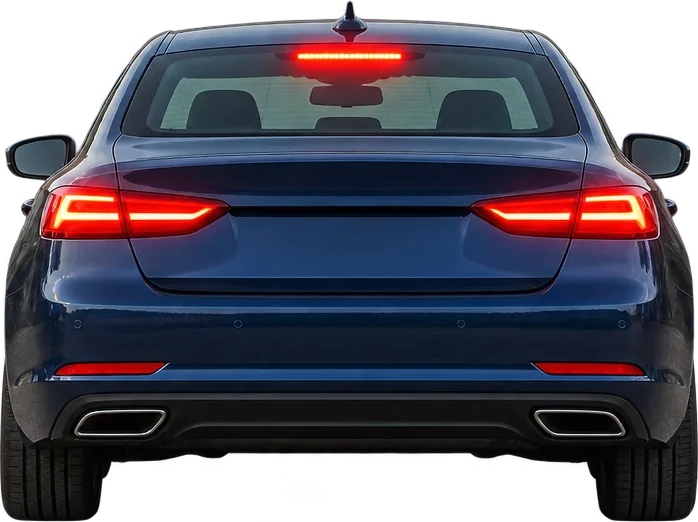
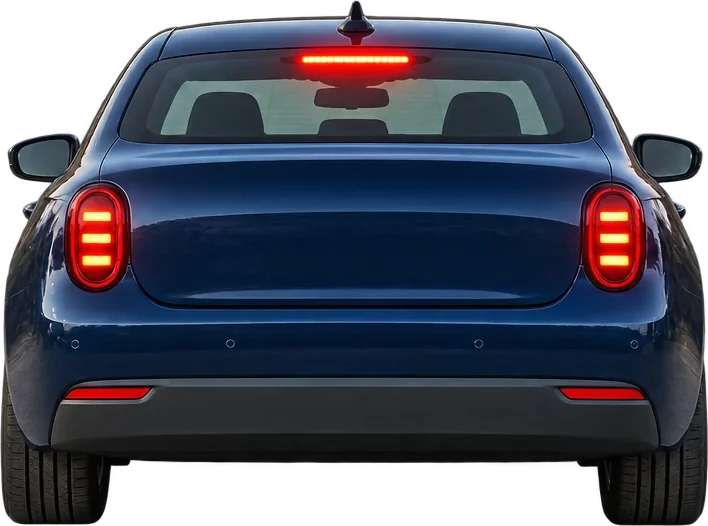
Bremsen: Kuppe mit Stauende in Fahrt 4, Gefälle in Fahrt 7, Bremsweg bergauf/bergab, neu gezeichnete Stau-Autos

diff --git a/autohaus-bremstest/spiel.js b/autohaus-bremstest/spiel.js
@@ -13,22 +13,32 @@
     { kmh: 30, wetter: 'tag', gefahr: 'ball' },
     { kmh: 50, wetter: 'tag', gefahr: 'hase' },   // Hase statt Reh (Nutzer, 18.10.2026), das Reh bleibt in Fahrt 5
     { kmh: 50, wetter: 'regen', gefahr: 'auto' },
-    { kmh: 70, wetter: 'tag', gefahr: 'stau' },
+    { kmh: 70, wetter: 'tag', gefahr: 'stau', steigung: 8, kuppe: 12.5 },   // Nutzer 19.10.2026: bergauf, Stauende 12,5 m hinter der Kuppe
     { kmh: 70, wetter: 'nebel', gefahr: 'reh' },
     { kmh: 100, wetter: 'nacht', gefahr: 'stau' },
-    { kmh: 100, wetter: 'sonne', gefahr: 'ladung' },   // Fahrt 7 (Nutzer, 18.10.2026): blendende Sonne, Sonnenblende, LKW verliert Ladung
+    { kmh: 100, wetter: 'sonne', gefahr: 'ladung', steigung: -8 },   // Fahrt 7 (Nutzer, 18.10.2026): blendende Sonne, Sonnenblende, LKW verliert Ladung
   ];
   const WETTER = { tag: 'trocken', regen: 'Regen', nebel: 'Nebel', nacht: 'Nacht', sonne: 'Sonne' };
   const NASS = 1.5;          // Bremsweg bei Nässe 1,5-mal so lang
   const FAIR = 0.9;          // bei 0,9 s Reaktionszeit reicht der Platz gerade noch
   const AUTOFARBEN = ['#b9bdc0', '#2f63c6', '#f2f3f1', '#5f6366', '#e2622f', '#1d1f22'];   // Opel-Lackfarben
 
-  // Fahrschul-Faustformel: Bremsweg bei Gefahrenbremsung = (km/h / 10)² / 2, bei Nässe länger
-  const bremsweg = f => (f.kmh / 10) ** 2 / 2 * (f.wetter === 'regen' ? NASS : 1);
+  // Fahrschul-Faustformel: Bremsweg bei Gefahrenbremsung = (km/h / 10)² / 2, bei Nässe länger.
+  // Steigung (+) bzw. Gefälle (−) in Prozent: Verzögerung a = a0·cos θ + g·sin θ – bergauf hilft die Schwerkraft, bergab bremst sie dagegen
+  const bremsweg = f => {
+    const s0 = (f.kmh / 10) ** 2 / 2 * (f.wetter === 'regen' ? NASS : 1);
+    if (!f.steigung) return s0;
+    const ms = f.kmh / 3.6, a0 = ms * ms / (2 * s0), th = Math.atan(f.steigung / 100);
+    return ms * ms / (2 * (a0 * Math.cos(th) + 9.81 * Math.sin(th)));
+  };
+  // Kuppe: so weit vor dem Stau, dass die Dächer (1,5 m) genau dann über den Kamm ragen, wenn die Gefahr beginnt
+  const KUPPE_DACH = 1.5;
+  const kuppenSicht = f => { const q = f.steigung / 100, d = f.kuppe; return AUGE / (2 * q - KUPPE_DACH / d) + d; };
 
   // ---------- Zustand ----------
   let schilder = [];
   let haseX = -6;
+  let kuppe = null;   // Weltposition der Kuppe (nur Fahrt mit kuppe)
   let nr, phase, phaseT, s, v, v0, a, tEreignis, gefahrT, reaktion, ziel, auto, lkw, holzT, ergebnisse, zuFrueh, zuFruehGesamt, wackeln, rehX, ballX, zahlen, blink;
   let B = 0, H = 0;
 
@@ -59,6 +69,9 @@
     // LKW mit offener Ladetür (nur bei „ladung“): fährt so weit vorne, dass das herunterfallende Holz fair liegt
     lkw = f.gefahr === 'ladung' ? { pos: v0 * FAIR + bremsweg(f) + 2.5, v: v0 } : null;
     holzT = 0;
+    // Kuppe: der Stau steht von Anfang an fest (hinter dem Kamm verborgen) und taucht auf, wenn die Gefahr beginnt
+    kuppe = null;
+    if (f.kuppe) { ziel = v0 * tEreignis + kuppenSicht(f); kuppe = ziel - f.kuppe; }
   }
 
   // Abstand zur Gefahr in Metern (vor der eigenen Stoßstange)
@@ -163,13 +176,14 @@
     const laeuft = phase !== 'aus';
     regen.stellen(laeuft && f.wetter === 'regen' ? 1 : 0);
     nacht.stellen(laeuft && f.wetter === 'nacht' ? 1 : 0);
-    blinker.stellen(laeuft && f.gefahr === 'stau' && ziel != null ? 1 : 0);
+    blinker.stellen(laeuft && f.gefahr === 'stau' && ziel != null && (kuppe == null || phase !== 'fahren') ? 1 : 0);
     R_.anzeige(`Fahrt ${nr + 1}/${FAHRTEN.length} – ${f.kmh} km/h – ${WETTER[f.wetter]}`, ergebnisse.length ? 'Ø ' + sek(schnittZeit()) : '');
   }
 
   function gefahrBeginnt(f) {
     phase = 'gefahr'; gefahrT = 0;
     if (auto) { auto.bremst = true; return; }
+    if (kuppe != null) return;   // Stau steht schon hinter der Kuppe
     ziel = s + v0 * FAIR + bremsweg(f) + 1.5;
     if (lkw) ziel = lkw.pos - 1;   // Holz fällt direkt hinter dem LKW auf die Straße
   }
@@ -212,7 +226,22 @@
   // Perspektive: Kamera 1,2 m über der Straße; y(z) = Horizont + P/z
   const AUGE = 1.2, NAH = 4.5;   // vorderster sichtbarer Punkt der Straße (Motorhaube verdeckt den Rest)
   let hz = 0, unten = 0, mitte = 0, PERS = 1;
-  const yZ = z => hz + PERS / z;
+  // Höhe der Fahrbahn in der Entfernung z gegenüber der eigenen Fahrbahnebene (Kuppe: hinter dem Kamm fällt sie ab)
+  function kuppenAbstand() { return kuppe == null ? Infinity : kuppe - s; }
+  function hoehe(z) {
+    const zK = kuppenAbstand();
+    if (!isFinite(zK) || zK < 2 || z <= zK) return 0;
+    const q = FAHRTEN[nr].steigung / 100, k = Math.min(1, (zK - 2) / 8);   // kurz vor dem Kamm wird das Profil flach
+    return -2 * q * k * (z - zK);
+  }
+  const yZ = z => hz + PERS / z * (1 - hoehe(z) / AUGE);
+  let hzLand = 0;   // Horizont der Landschaft (bergauf tiefer, bergab höher als der Fluchtpunkt der Straße)
+  // Dinge hinter der Kuppe nur oberhalb des Kamms zeichnen
+  function hinterKuppe(g, z, zeichnen) {
+    const zK = kuppenAbstand();
+    if (!isFinite(zK) || zK < 2 || z <= zK) return zeichnen();
+    g.save(); g.beginPath(); g.rect(0, 0, B, yZ(zK)); g.clip(); zeichnen(); g.restore();
+  }
   const mProM = z => PERS / (AUGE * z);   // Bildpunkte pro Meter in der Entfernung z
   const xZ = (x, z) => mitte + x * mProM(z);
 
@@ -224,6 +253,7 @@
     unten = ck.armaturen + 6;                          // Straße endet knapp unter dem Armaturenbrett
     hz = Math.max(60, ck.y + (unten - ck.y) * 0.3);    // Horizont im oberen Drittel der Windschutzscheibe
     PERS = (unten - hz) * NAH;
+    hzLand = hz + (f.steigung || 0) / 100 * PERS / AUGE * 1.1;
 
     rueckstrahler = [];
     himmel(g, f);
@@ -278,8 +308,8 @@
     if (fertig(LANDSCHAFT)) {
       // Panorama so groß, dass es die Breite füllt und Augenhöhe auf dem Horizont liegt
       const iw = LANDSCHAFT.naturalWidth, ih = LANDSCHAFT.naturalHeight;
-      const m = Math.max(B / iw, hz / LANDSCHAFT_HORIZONT, (H - hz) / (ih - LANDSCHAFT_HORIZONT));
-      g.drawImage(LANDSCHAFT, (B - iw * m) / 2, hz - LANDSCHAFT_HORIZONT * m, iw * m, ih * m);
+      const m = Math.max(B / iw, hzLand / LANDSCHAFT_HORIZONT, (H - hzLand) / (ih - LANDSCHAFT_HORIZONT));
+      g.drawImage(LANDSCHAFT, (B - iw * m) / 2, hzLand - LANDSCHAFT_HORIZONT * m, iw * m, ih * m);
       const toenung = { regen: 'rgba(70,78,88,.6)', nebel: 'rgba(214,219,224,.7)', nacht: 'rgba(3,5,14,.9)' }[f.wetter];
       if (toenung) { g.fillStyle = toenung; g.fillRect(0, 0, B, H); }
       return;
@@ -309,13 +339,26 @@
 
   function strasseBild(g, f) {
     const iw = STRASSE.naturalWidth, ih = STRASSE.naturalHeight;
-    // Zeile für Zeile: jede Bildschirmzeile zeigt die Straße in ihrer Entfernung z
-    for (let y = Math.floor(hz) + 1; y < unten + 2; y++) {
-      const z = PERS / (y + 0.5 - hz);
-      if (z > 400) continue;
+    const zeile = (z, y, h) => {
       const anteil = ((s + z) / STRASSE_LAENGE) % 1;
       const xl = xZ(STRASSE_LINKS, z), xr = xZ(STRASSE_RECHTS, z);
-      g.drawImage(STRASSE, 0, (1 - anteil) * (ih - 1), iw, 1, xl, y, xr - xl, 1.2);
+      g.drawImage(STRASSE, 0, (1 - anteil) * (ih - 1), iw, 1, xl, y, xr - xl, h);
+    };
+    const zK = kuppenAbstand();
+    // Zeile für Zeile: jede Bildschirmzeile zeigt die Straße in ihrer Entfernung z (bei einer Kuppe nur bis zum Kamm)
+    for (let y = Math.floor(hz) + 1; y < unten + 2; y++) {
+      const z = PERS / (y + 0.5 - hz);
+      if (z > 400 || (zK >= 2 && z > zK)) continue;
+      zeile(z, y, 1.2);
+    }
+    if (isFinite(zK) && zK >= 2) {
+      // hinter dem Kamm: von nah nach fern, nur was über die bereits gezeichnete Straße hinausragt
+      let yMin = zK > NAH ? yZ(zK) : unten + 2;
+      for (let z = Math.max(zK, NAH); z < 400; z += Math.max(0.25, z * 0.01)) {
+        const y = yZ(z);
+        if (y < yMin - 0.3) { zeile(z, y, yMin - y + 0.6); yMin = y; }
+      }
+      return;   // kein Dunst: die Ferne liegt hinter der Kuppe
     }
     // In der Ferne verschwimmt der Asphalt (verhindert Flimmern der Striche)
     const zNah = 70, yNah = yZ(zNah);
@@ -348,9 +391,9 @@
       for (let k = 16; k >= 0; k--) {
         const z = k * 25 - lp;
         if (z < NAH) continue;
-        for (const x of [2.6, -6.1]) leitpfosten(g, xZ(x, z), yZ(z), mProM(z), nacht, x < 0);
+        hinterKuppe(g, z, () => { for (const x of [2.6, -6.1]) leitpfosten(g, xZ(x, z), yZ(z), mProM(z), nacht, x < 0); });
       }
-      for (const sch of [...schilder].sort((a, b) => b.pos - a.pos)) schild(g, sch, sch.pos - s);
+      for (const sch of [...schilder].sort((a, b) => b.pos - a.pos)) hinterKuppe(g, sch.pos - s, () => schild(g, sch, sch.pos - s));
       return;
     }
     // Fahrbahn: rechter Rand +2,1 m, Mittellinie −1,75 m, linker Rand −5,6 m (Kamera in der Mitte der rechten Spur)
@@ -430,6 +473,10 @@
 
   // ---------- Gefahren (gemalte Bilder, gezeichneter Ersatz solange sie laden) ----------
   function gefahrZeichnen(g, f) {
+    if (kuppe != null && ziel != null) return hinterKuppe(g, ziel - s, () => gefahrBilder(g, f));
+    gefahrBilder(g, f);
+  }
+  function gefahrBilder(g, f) {
     if (auto && fertig(BILD.wohnmobil)) {
       const an = auto.bremst && fertig(BILD.wohnmobilAn);
       return stauAuto(g, an ? BILD.wohnmobilAn : BILD.wohnmobil, 0, Math.max(1.5, auto.pos - s), 2.35, STAU_LICHT.wohnmobil, auto.bremst, false);
@@ -468,7 +515,7 @@
         const breite = STAU_BREITE[l] || (l === 'rot' ? 1.9 : 2.05);
         stauAuto(g, BILD[b], x, z + dz, breite, STAU_LICHT[l]);
       }
-      warndreieck(g, 1.2, z - 25);
+      warndreieck(g, 1.2, kuppe != null ? z - 6 : z - 25);
     }
     else if (f.gefahr === 'stau') {
       autoHinten(g, -3.5, z + 6, AUTOFARBEN[(nr + 2) % 6], true, true);
@@ -478,9 +525,9 @@
   }
 
   // Lage der Rückleuchten (Anteile von Breite/Höhe, am Bild abgemessen) und der dritten Bremsleuchte oben
-  const STAU_LICHT = { rot: { seiten: [[0.17, 0.38], [0.84, 0.38]], oben: [0.5, 0.16] }, blau: { seiten: [[0.17, 0.42], [0.83, 0.41]], oben: [0.5, 0.11] },
-    transporter: { seiten: [[0.1, 0.554], [0.897, 0.553]], oben: [0.498, 0.021] }, kombi: { seiten: [[0.14, 0.408], [0.875, 0.409]], oben: [0.526, 0.1] },
-    suv: { seiten: [[0.14, 0.378], [0.852, 0.378]], oben: [0.498, 0.099] }, lkw: { seiten: [[0.167, 0.762], [0.834, 0.763]], oben: [0.505, 0.017] },
+  const STAU_LICHT = { rot: { seiten: [[0.17, 0.38], [0.84, 0.38]], oben: [0.5, 0.16] }, blau: { seiten: [[0.138, 0.447], [0.866, 0.447]], oben: [0.5, 0.11] },
+    transporter: { seiten: [[0.1, 0.554], [0.897, 0.553]], oben: [0.498, 0.021] }, kombi: { seiten: [[0.111, 0.456], [0.888, 0.457]], oben: [0.501, 0.11] },
+    suv: { seiten: [[0.13, 0.43], [0.865, 0.43]], oben: [0.487, 0.085] }, lkw: { seiten: [[0.167, 0.762], [0.834, 0.763]], oben: [0.505, 0.017] },
     wohnmobil: { seiten: [[0.131, 0.757], [0.863, 0.758]], oben: [0.453, 0.099] },
     nachtBus: { seiten: [[0.097, 0.67], [0.907, 0.672]], oben: [0.505, 0.111] }, nachtPickup: { seiten: [[0.081, 0.442], [0.916, 0.44]], oben: [0.499, 0.031] },
     nachtKleinwagen: { seiten: [[0.131, 0.427], [0.875, 0.425]], oben: [0.507, 0.078] }, nachtSattelzug: { seiten: [[0.123, 0.805], [0.883, 0.805]], oben: [0.504, 0.024] } };
@@ -640,7 +687,7 @@
   function sonne(g) {
     const t = performance.now() / 1000;
     const flackern = 0.82 + 0.1 * Math.sin(t * 7.3) + 0.08 * Math.sin(t * 13.1 + 1) + (Math.sin(t * 1.7) > 0.93 ? 0.35 : 0);
-    const sx = B * 0.68, sy = hz - Math.max(22, (unten - hz) * 0.14), r = Math.max(B, H) * 0.7;
+    const sx = B * 0.68, sy = hzLand - Math.max(22, (unten - hz) * 0.14), r = Math.max(B, H) * 0.7;
     // ganze Scheibe ausgebleicht
     g.fillStyle = `rgba(255,244,214,${0.22 * flackern})`;
     g.fillRect(0, 0, B, unten);
@@ -856,7 +903,7 @@
     const posten = [
       ['Reaktionszeit', e.zuFrueh ? sek(e.reaktion) + ' + ' + sek(ZU_FRUEH * e.zuFrueh) : sek(e.reaktion)],
       ['Reaktionsweg', meter(e.reaktionsweg)],
-      ['Bremsweg', meter(e.bremsweg)],
+      [FAHRTEN[e.fahrt].steigung > 0 ? 'Bremsweg (bergauf)' : FAHRTEN[e.fahrt].steigung < 0 ? 'Bremsweg (bergab)' : 'Bremsweg', meter(e.bremsweg)],
       ['Anhalteweg', meter(e.anhalteweg)],
       [e.unfall ? 'Platz' : 'Noch Platz', e.unfall ? '–' : meter(e.platz)],
     ];
